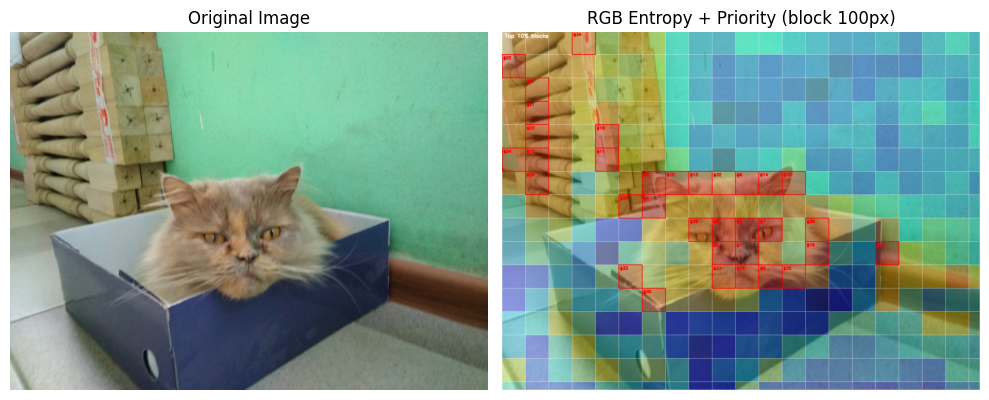
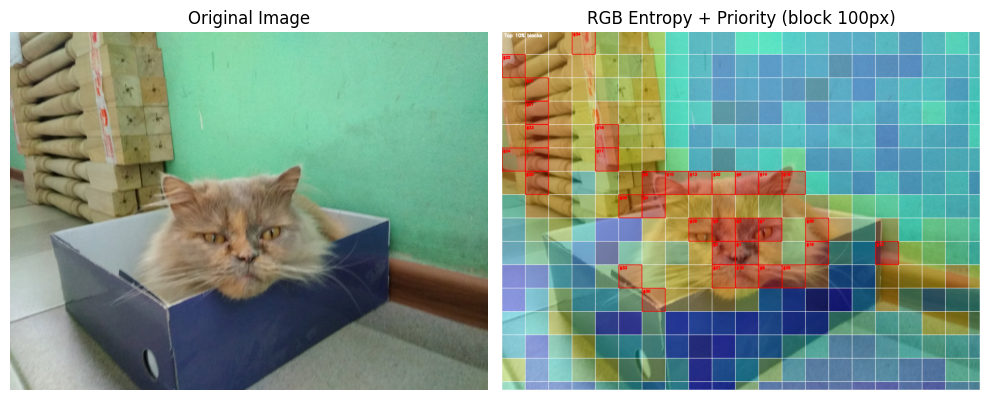
Change#005
Updated the project from grayscale entropy visualization to multivariate RGB entropy analysis.

Added joint RGB entropy H(R,G,B) calculation for each image block, treating each RGB color combination as a single multivariate state.

Added separate entropy calculations for the Red, Green, and Blue channels for additional analysis.

Added real image block prioritization based on joint RGB entropy.

Added normalization of entropy values into a 0–100 priority score.

Added automatic ranking of image blocks and selection of the top 10% highest-priority blocks.

Added block ranking labels (#1, #2, #3, etc.) to the visualization.

Updated the entropy heatmap to use RGB information instead of grayscale intensity.

Added visual highlighting of prioritized blocks with red borders.

Updated the final visualization to show the original image alongside the RGB entropy heatmap, block grid, and priority ranking.

Updated the script to generate and save Figure_1.png automatically.

Added plt.show() so the final visualization is displayed when the project is run on a normal computer with a graphical interface.

Removed the hard-coded author-specific image path and made the script work with MilkaCat.jpg located next to main.py.

Kept the project lightweight and suitable for a simple computer using only NumPy, OpenCV, and Matplotlib.

diff --git a/Python/main.py b/Python/main.py
@@ -1,7 +1,7 @@
-"""Lightweight RGB entropy analysis and image-block prioritization prototype."""
+"""Lightweight multivariate RGB entropy image prioritization prototype."""
 
 from pathlib import Path
-from typing import Dict, List, Union, Tuple
+from typing import Dict, List, Tuple, Union
 
 import cv2
 import matplotlib.pyplot as plt
@@ -12,32 +12,58 @@ DEFAULT_BLOCK_SIZE = 100
 DEFAULT_ALPHA = 0.30
 DEFAULT_TOP_PERCENT = 10.0
 
+Number = Union[int, float]
+Block = Dict[str, Number]
 
-def calculate_rgb_entropy(block_rgb: np.ndarray) -> float:
-    """Return Shannon entropy of exact RGB colors in one image block.
 
-    Each RGB pixel is packed into one integer, so the histogram is built from
-    full colors rather than grayscale values or separate channels.
-    """
-    if block_rgb.size == 0:
+def shannon_entropy_from_counts(counts: np.ndarray) -> float:
+    """Calculate Shannon entropy from non-zero histogram counts."""
+    counts = counts[counts > 0]
+    if counts.size == 0:
         return 0.0
 
-    # Pack R, G and B into one 24-bit integer per pixel.
-    packed = (
-        (block_rgb[:, :, 0].astype(np.uint32) << 16)
-        | (block_rgb[:, :, 1].astype(np.uint32) << 8)
-        | block_rgb[:, :, 2].astype(np.uint32)
-    ).reshape(-1)
-
-    # Count each distinct RGB color present in the block.
-    _, counts = np.unique(packed, return_counts=True)
-    probabilities = counts / packed.size
-
+    probabilities = counts.astype(np.float64) / counts.sum()
     return float(-np.sum(probabilities * np.log2(probabilities)))
 
 
+def calculate_rgb_entropies(
+    block_rgb: np.ndarray,
+) -> Tuple[float, float, float, float]:
+    """Return H(R), H(G), H(B), and joint multivariate H(R,G,B).
+
+    The image stays in full RGB. The joint entropy treats each complete
+    (R, G, B) color as one three-dimensional observation.
+    """
+    if block_rgb.size == 0:
+        return 0.0, 0.0, 0.0, 0.0
+
+    r = block_rgb[:, :, 0].reshape(-1)
+    g = block_rgb[:, :, 1].reshape(-1)
+    b = block_rgb[:, :, 2].reshape(-1)
+
+    # Calculate marginal entropy for each RGB channel.
+    entropy_r = shannon_entropy_from_counts(np.bincount(r, minlength=256))
+    entropy_g = shannon_entropy_from_counts(np.bincount(g, minlength=256))
+    entropy_b = shannon_entropy_from_counts(np.bincount(b, minlength=256))
+
+    # Pack the full 8-bit RGB color into one 24-bit integer.
+    # This creates a compact 1-D representation of the 3-D RGB histogram.
+    packed_rgb = (
+        (r.astype(np.uint32) << 16)
+        | (g.astype(np.uint32) << 8)
+        | b.astype(np.uint32)
+    )
+
+    # np.unique returns the count of every complete RGB color in the block.
+    # No grayscale conversion and no channel averaging are used here.
+    _, color_counts = np.unique(packed_rgb, return_counts=True)
+    entropy_rgb = shannon_entropy_from_counts(color_counts)
+
+    return entropy_r, entropy_g, entropy_b, entropy_rgb
+
+
 def normalize_scores(values: np.ndarray) -> np.ndarray:
-    """Scale an array to the 0-100 range without expensive processing."""
+    """Scale values to a simple 0-100 relative priority score."""
     minimum = float(values.min())
     maximum = float(values.max())
 
@@ -48,23 +74,26 @@ def normalize_scores(values: np.ndarray) -> np.ndarray:
 
 
 def calculate_block_entropies(
-    img_rgb: np.ndarray, block_size: int
-) -> Tuple[np.ndarray, List[Dict[str, Union[float, int]]]]:
-    """Calculate one exact RGB entropy value for every image block."""
+    img_rgb: np.ndarray,
+    block_size: int,
+) -> Tuple[np.ndarray, List[Block]]:
+    """Calculate RGB entropy values for every image block."""
     height, width = img_rgb.shape[:2]
     entropy_map = np.zeros((height, width), dtype=np.float32)
-    blocks: List[Dict[str, Union[float, int]]] = []
+    blocks: List[Block] = []
 
     block_id = 1
 
     for y in range(0, height, block_size):
         for x in range(0, width, block_size):
             block = img_rgb[y : y + block_size, x : x + block_size]
-            entropy = calculate_rgb_entropy(block)
+            entropy_r, entropy_g, entropy_b, entropy_rgb = calculate_rgb_entropies(block)
 
             y2 = min(y + block_size, height)
             x2 = min(x + block_size, width)
-            entropy_map[y:y2, x:x2] = entropy
+
+            # Fill the complete block with its one joint RGB entropy value.
+            entropy_map[y:y2, x:x2] = entropy_rgb
 
             blocks.append(
                 {
@@ -73,7 +102,10 @@ def calculate_block_entropies(
                     "y": y,
                     "width": x2 - x,
                     "height": y2 - y,
-                    "entropy": entropy,
+                    "entropy_r": entropy_r,
+                    "entropy_g": entropy_g,
+                    "entropy_b": entropy_b,
+                    "entropy_rgb": entropy_rgb,
                 }
             )
             block_id += 1
@@ -82,75 +114,86 @@ def calculate_block_entropies(
 
 
 def prioritize_blocks(
-    blocks: List[Dict[str, Union[float, int]]], top_percent: float
-) -> List[Dict[str, Union[float, int]]]:
-    """Rank blocks by RGB entropy and mark the highest-priority blocks."""
+    blocks: List[Block],
+    top_percent: float,
+) -> List[Block]:
+    """Rank blocks by joint RGB entropy and mark the highest-priority ones."""
     entropy_values = np.array(
-        [float(block["entropy"]) for block in blocks], dtype=np.float32
+        [float(block["entropy_rgb"]) for block in blocks],
+        dtype=np.float32,
     )
-    scores = normalize_scores(entropy_values)
+    priority_scores = normalize_scores(entropy_values)
 
-    for block, score in zip(blocks, scores):
+    for block, score in zip(blocks, priority_scores):
         block["priority_score"] = float(score)
-        block["priority"] = 0
+        block["priority_rank"] = 0
 
-    requested = max(1, int(np.ceil(len(blocks) * top_percent / 100.0)))
-    ranked = sorted(blocks, key=lambda item: float(item["priority_score"]), reverse=True)
+    # Highest joint RGB entropy gets highest priority.
+    # Coordinates make ties deterministic between repeated runs.
+    ranked = sorted(
+        blocks,
+        key=lambda block: (
+            -float(block["entropy_rgb"]),
+            int(block["y"]),
+            int(block["x"]),
+        ),
+    )
 
-    for rank, block in enumerate(ranked[:requested], start=1):
-        block["priority"] = rank
+    selected_count = max(1, int(np.ceil(len(ranked) * top_percent / 100.0)))
+
+    for rank, block in enumerate(ranked[:selected_count], start=1):
+        block["priority_rank"] = rank
 
     return ranked
 
 
 def draw_priority_overlay(
     image_bgr: np.ndarray,
-    blocks: List[Dict[str, Union[float, int]]],
+    blocks: List[Block],
     top_percent: float,
 ) -> np.ndarray:
-    """Draw the block grid and highlight the selected high-priority blocks."""
+    """Draw the block grid and highlight the prioritized blocks."""
     overlay = image_bgr.copy()
+    height, width = overlay.shape[:2]
 
-    selected = {
-        int(block["priority"]): block
-        for block in blocks
-        if int(block["priority"]) > 0
-    }
-
-    # Draw all grid lines first so the selected blocks stay easy to read.
-    height, width = image_bgr.shape[:2]
+    # Draw the full block grid first.
     for block in blocks:
         x = int(block["x"])
         y = int(block["y"])
-        x2 = min(x + int(block["width"]), width - 1)
-        y2 = min(y + int(block["height"]), height - 1)
+        x2 = min(x + int(block["width"]) - 1, width - 1)
+        y2 = min(y + int(block["height"]) - 1, height - 1)
         cv2.rectangle(overlay, (x, y), (x2, y2), (255, 255, 255), 1)
 
-    # Highlight only the top-ranked blocks. This turns the heatmap into a
-    # real, simple prioritization result instead of visualization only.
-    for rank, block in selected.items():
+    # Draw red borders and rank labels for selected blocks only.
+    for block in blocks:
+        rank = int(block["priority_rank"])
+        if rank <= 0:
+            continue
+
         x = int(block["x"])
         y = int(block["y"])
-        x2 = min(x + int(block["width"]), width - 1)
-        y2 = min(y + int(block["height"]), height - 1)
+        x2 = min(x + int(block["width"]) - 1, width - 1)
+        y2 = min(y + int(block["height"]) - 1, height - 1)
+
         cv2.rectangle(overlay, (x, y), (x2, y2), (0, 0, 255), 2)
         cv2.putText(
             overlay,
             f"#{rank}",
-            (x + 5, min(y + 20, height - 5)),
+            (x + 4, min(y + 18, height - 4)),
             cv2.FONT_HERSHEY_SIMPLEX,
-            0.55,
+            0.50,
             (0, 0, 255),
             2,
             cv2.LINE_AA,
         )
 
+    # Keep the label simple and visible on the heatmap.
     cv2.putText(
         overlay,
         f"Top {top_percent:g}% blocks",
-        (12, 28),
+        (10, 25),
         cv2.FONT_HERSHEY_SIMPLEX,
-        0.75,
+        0.65,
         (255, 255, 255),
         2,
         cv2.LINE_AA,
@@ -165,9 +208,8 @@ def generate_entropy_comparison(
     block_size: int = DEFAULT_BLOCK_SIZE,
     alpha: float = DEFAULT_ALPHA,
     top_percent: float = DEFAULT_TOP_PERCENT,
-    show_result: bool = True,
-) -> List[Dict[str, Union[float, int]]]:
-    """Analyze, prioritize, visualize, save and optionally display the result."""
+) -> List[Block]:
+    """Analyze, prioritize, save, and display the final comparison figure."""
     image_path = Path(image_path)
     output_path = Path(output_path)
 
@@ -178,72 +220,84 @@ def generate_entropy_comparison(
     if not 0.0 < top_percent <= 100.0:
         raise ValueError("top_percent must be greater than 0 and at most 100")
 
-    img_bgr = cv2.imread(str(image_path), cv2.IMREAD_COLOR)
-    if img_bgr is None:
+    image_bgr = cv2.imread(str(image_path), cv2.IMREAD_COLOR)
+    if image_bgr is None:
         raise FileNotFoundError(f"Could not load image: {image_path}")
 
-    img_rgb = cv2.cvtColor(img_bgr, cv2.COLOR_BGR2RGB)
-    height, width = img_rgb.shape[:2]
+    image_rgb = cv2.cvtColor(image_bgr, cv2.COLOR_BGR2RGB)
+    height, width = image_rgb.shape[:2]
 
-    # 1. Calculate exact RGB entropy for every block.
-    entropy_map, blocks = calculate_block_entropies(img_rgb, block_size)
+    # 1. Calculate marginal RGB entropies and the joint H(R,G,B) per block.
+    entropy_map, blocks = calculate_block_entropies(image_rgb, block_size)
 
-    # 2. Convert entropy values into a relative 0-100 priority score.
+    # 2. Rank blocks using joint multivariate RGB entropy.
     ranked_blocks = prioritize_blocks(blocks, top_percent)
 
-    # 3. Turn the score map into a readable heatmap.
-    norm_map = cv2.normalize(
-        entropy_map, None, 0, 255, cv2.NORM_MINMAX, dtype=cv2.CV_8U
+    # 3. Convert the entropy map into a heatmap and blend it with the image.
+    normalized_map = cv2.normalize(
+        entropy_map,
+        None,
+        0,
+        255,
+        cv2.NORM_MINMAX,
+        dtype=cv2.CV_8U,
     )
-    heatmap_bgr = cv2.applyColorMap(norm_map, cv2.COLORMAP_JET)
+    heatmap_bgr = cv2.applyColorMap(normalized_map, cv2.COLORMAP_JET)
     heatmap_overlay_bgr = cv2.addWeighted(
-        heatmap_bgr, alpha, img_bgr, 1.0 - alpha, 0
+        heatmap_bgr,
+        alpha,
+        image_bgr,
+        1.0 - alpha,
+        0,
     )
 
-    # 4. Add the crisp block grid and highlight prioritized blocks.
-    priority_overlay_bgr = draw_priority_overlay(
-        heatmap_overlay_bgr, ranked_blocks, top_percent
+    # 4. Draw the same clear grid + priority overlay style as the reference.
+    result_bgr = draw_priority_overlay(
+        heatmap_overlay_bgr,
+        ranked_blocks,
+        top_percent,
     )
-    priority_overlay_rgb = cv2.cvtColor(priority_overlay_bgr, cv2.COLOR_BGR2RGB)
+    result_rgb = cv2.cvtColor(result_bgr, cv2.COLOR_BGR2RGB)
 
-    # 5. Save the figure instead of requiring a GUI window.
+    # 5. Build the final side-by-side figure.
     fig, axes = plt.subplots(1, 2, figsize=(10, 6), dpi=100)
-    axes[0].imshow(img_rgb)
+    axes[0].imshow(image_rgb)
     axes[0].set_title("Original Image")
     axes[0].axis("off")
 
-    axes[1].imshow(priority_overlay_rgb)
-    axes[1].set_title(
-        f"RGB Entropy + Priority (block {block_size}px)"
-    )
+    axes[1].imshow(result_rgb)
+    axes[1].set_title(f"RGB Entropy + Priority (block {block_size}px)")
     axes[1].axis("off")
 
     fig.tight_layout()
+    output_path.parent.mkdir(parents=True, exist_ok=True)
     fig.savefig(output_path, bbox_inches="tight")
 
-    # Show the generated map when the function is called interactively.
-    # Setting show_result=False keeps the same function usable on headless machines.
-    if show_result:
-        plt.show()
-
+    # Show the result when the script finishes, matching the interactive
+    # behavior of the reference project.
+    plt.show()
     plt.close(fig)
 
-    # Print a compact ranking so the result is useful outside the image view.
-    print(f"Image: {image_path}")
+    min_entropy = min(float(block["entropy_rgb"]) for block in ranked_blocks)
+    max_entropy = max(float(block["entropy_rgb"]) for block in ranked_blocks)
+    selected_count = sum(int(block["priority_rank"]) > 0 for block in ranked_blocks)
+
+    print(f"Image: {image_path.name}")
     print(f"Size: {width}x{height} | Blocks: {len(ranked_blocks)}")
-    print(
-        f"RGB entropy: {min(b['entropy'] for b in ranked_blocks):.2f} "
-        f"to {max(b['entropy'] for b in ranked_blocks):.2f} bits"
-    )
-    print(f"Priority selection: top {top_percent:g}%")
+    print(f"Joint RGB entropy H(R,G,B): {min_entropy:.2f} to {max_entropy:.2f} bits")
+    print(f"Priority selection: top {top_percent:g}% ({selected_count} blocks)")
     print("Top priority blocks:")
+
     for block in ranked_blocks[: min(10, len(ranked_blocks))]:
+        rank = int(block["priority_rank"])
         print(
-            f"  #{int(block['priority']) or '-':>2} "
-            f"block {int(block['id']):>3} | "
+            f"  #{rank or '-':>2} block {int(block['id']):>3} | "
             f"x={int(block['x']):>4}, y={int(block['y']):>4} | "
-            f"entropy={float(block['entropy']):.2f} | "
-            f"score={float(block['priority_score']):>6.1f}"
+            f"H(R)={float(block['entropy_r']):.2f} | "
+            f"H(G)={float(block['entropy_g']):.2f} | "
+            f"H(B)={float(block['entropy_b']):.2f} | "
+            f"H(R,G,B)={float(block['entropy_rgb']):.2f} | "
+            f"score={float(block['priority_score']):>5.1f}"
         )
 
     print(f"Saved figure: {output_path}")
@@ -253,11 +307,11 @@ def generate_entropy_comparison(
 if __name__ == "__main__":
     # Keep the demo self-contained: the example image sits next to this file.
     project_dir = Path(__file__).resolve().parent
+
     generate_entropy_comparison(
         image_path=project_dir / "MilkaCat.jpg",
         output_path=project_dir / "Figure_1.png",
         block_size=DEFAULT_BLOCK_SIZE,
         alpha=DEFAULT_ALPHA,
         top_percent=DEFAULT_TOP_PERCENT,
-        show_result=True,
     )
